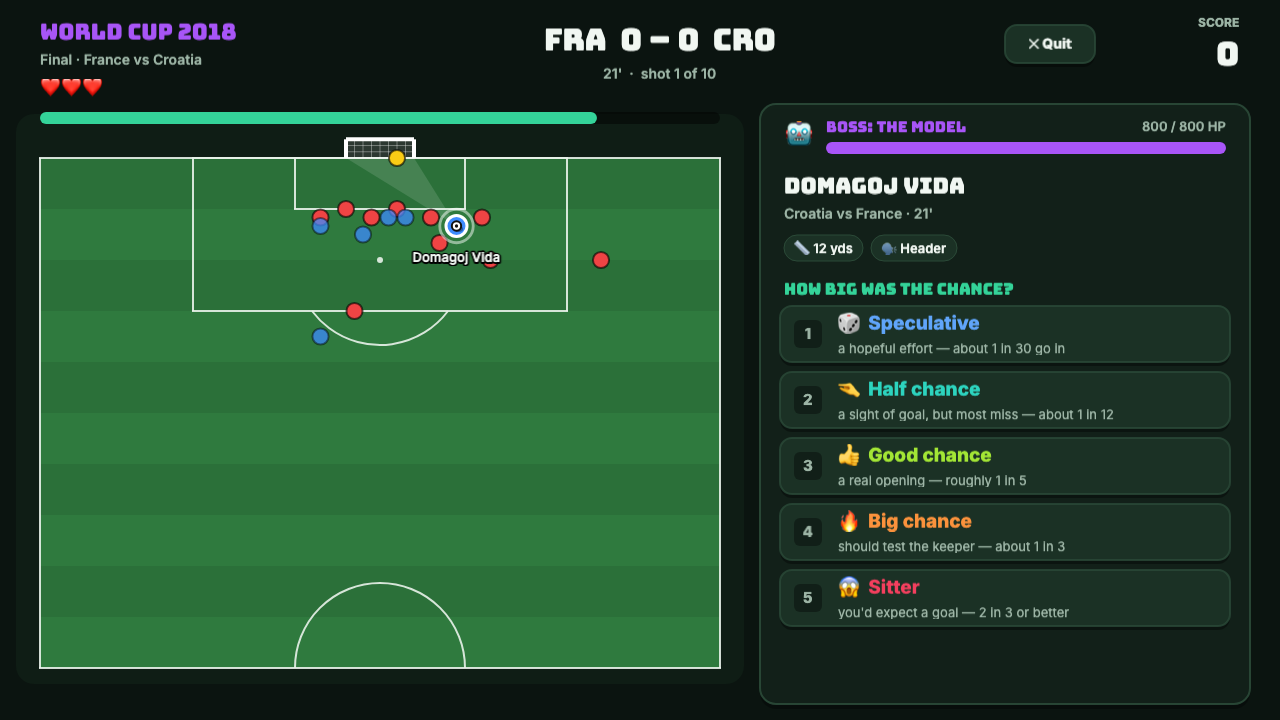
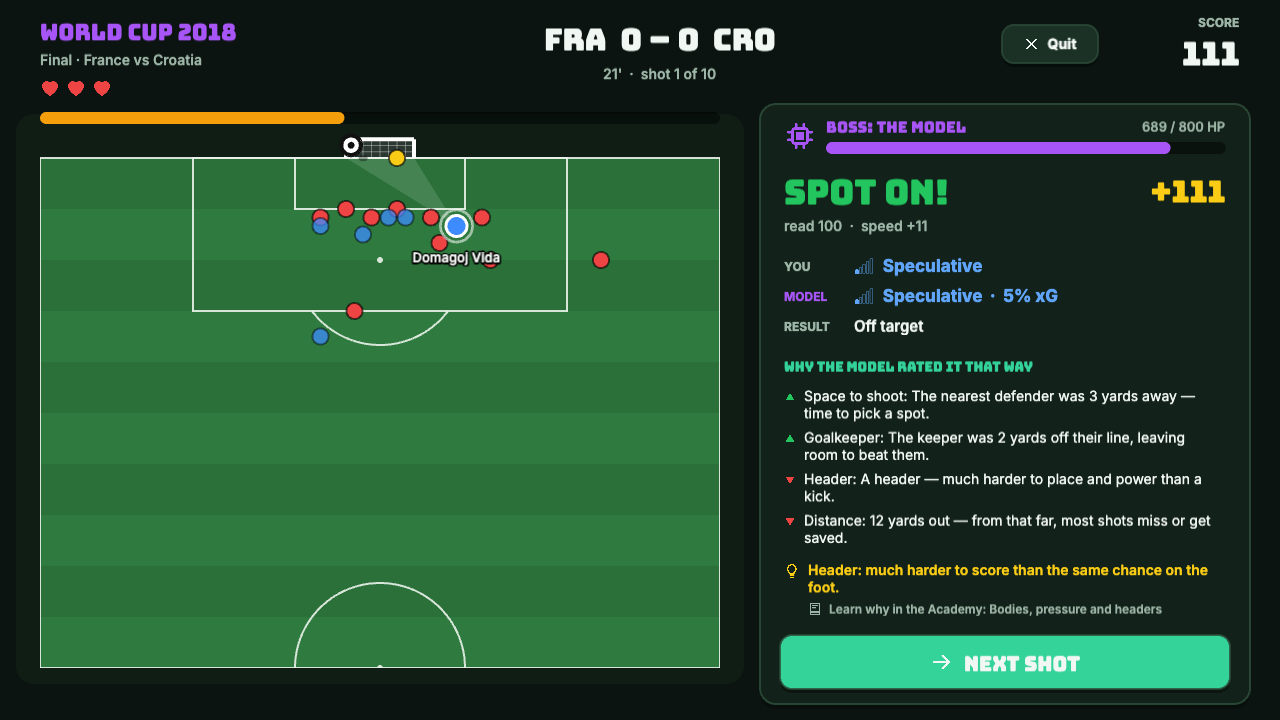
Retake the game screenshots and link the live site
The README showed the old emoji UI. New screenshots come from the deployed
game: the career map, a round, the boss final, an Academy lesson, Referee's
Eye and What Happens Next?. The README now links to the live game.

diff --git a/README.md b/README.md
@@ -4,6 +4,8 @@ An interactive tool that teaches football tactics and concepts (xG, pressing, of
 
 Unlike a typical xG dashboard, the whole point here is a real pipeline: **real match data → trained ML models → animated replay → interactive quiz → adaptive personalization.** The predictions come from models trained on data, not from an LLM pretending to be a football expert.
 
+**Play the browser game: [shireenaqeel.github.io/pitchsense](https://shireenaqeel.github.io/pitchsense/)** (see [The game](#the-game)).
+
 ## Problem
 
 "How likely was that shot to score?" is something even experienced fans disagree on. Expected Goals (xG) answers it with data: given where a shot was taken and what was happening around it, what share of similar shots historically became goals? PitchSense trains that model and then uses it as a yardstick to help a learner build intuition.
@@ -360,6 +362,8 @@ where every score uses the same Brier scale against the real outcome.
 
 ## The game
 
+**Play it: [shireenaqeel.github.io/pitchsense](https://shireenaqeel.github.io/pitchsense/)**
+
 `game/` turns the same shots and models into a real browser game: PitchSense:
 Scout Career, built with Phaser 3, TypeScript and Vite. The Streamlit app is
 where you learn and explore; the game gives you a reason to come back. It has
@@ -396,6 +400,10 @@ answering fast, and a combo multiplier for consecutive exact reads (×1.25, ×1.
 
 ![Boss fight](docs/game_boss.png)
 
+![Referee's Eye](docs/game_referee.png)
+
+![What Happens Next?](docs/game_next.png)
+
 **The Academy.** The game assumes you can read a football picture, so it
 teaches you to first. 26 short lessons in six modules take a newcomer from
 zero to following a live match: the pitch, the rules (restarts, fouls,
@@ -413,6 +421,8 @@ play. After every shot, the reveal points at the lesson behind the model's main
 reason (`CONCEPT_NOTES` and `REASON_LESSONS` in `game/src/academy/curriculum.ts`),
 so playing and learning feed each other. The curriculum is plain data and is
 unit tested: valid answers, on-pitch coordinates, and a lesson for every tag.
+
+![An Academy lesson](docs/game_academy.png)
 
 **Meta-game.** XP, scout levels and ranks (Sunday League Scout → Legendary
 Scout), coins, 20 achievements, a trophy cabinet, a per-concept scouting report,
